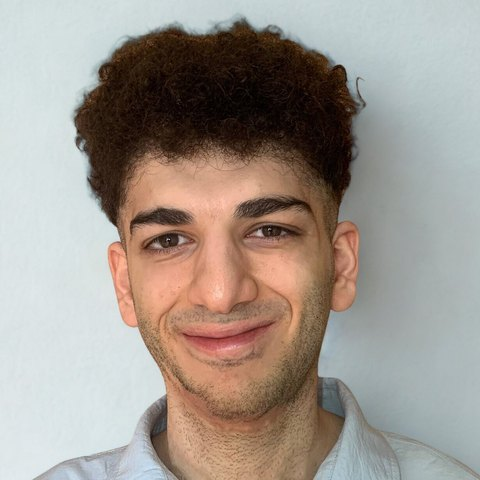
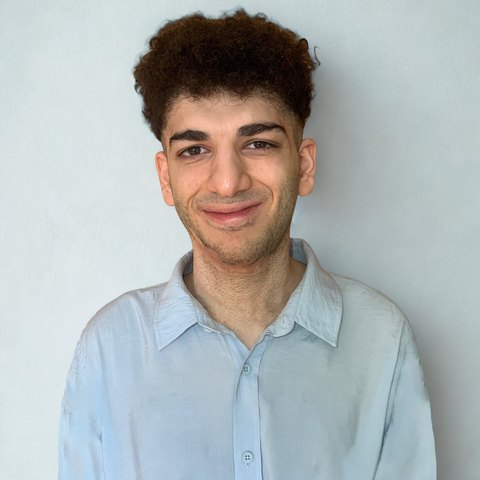
Recrop team photos; add Komandamız dropdown under Biz kimik?
Claude-Session: https://claude.ai/code/session_019X13Zvc9dd8WkbKAtMDupx

diff --git a/yazilar/muellif/eldar/index.html b/yazilar/muellif/eldar/index.html
@@ -16,7 +16,7 @@
   <link rel="icon" href="/favicon-48.png?v=2" type="image/png" sizes="48x48">
   <link rel="apple-touch-icon" href="/apple-touch-icon.png?v=2">
   <link rel="preload" href="/assets/fonts/big-shoulders-display-latin-wght-normal.woff2" as="font" type="font/woff2" crossorigin>
-  <link rel="stylesheet" href="/assets/css/style.css?v=bbbf054f">
+  <link rel="stylesheet" href="/assets/css/style.css?v=8ddf71ae">
   <link rel="stylesheet" href="/assets/css/blog.css?v=4">
   <link rel="stylesheet" href="/assets/css/blog.css?v=4">
   <meta name="src-path" content="yazilar/muellif/eldar/index.html">
@@ -37,7 +37,7 @@
     <div class="wrap">
       <a class="wordmark" href="/" aria-label="KYNO, ana səhifə"><img src="/assets/img/logo.svg" alt="KYNO" width="584" height="307"></a>
       <nav class="nav" aria-label="Əsas menyu">
-        <a href="/haqqimizda/">Biz kimik?</a>
+        <span class="nav-drop"><a href="/haqqimizda/">Biz kimik?</a><span class="nav-menu"><a href="/haqqimizda/#komanda">Komandamız</a></span></span>
         <a href="/podkastlar/">Podkastlar</a>
         <a href="/yazilar/" aria-current="page">Yazılarımız</a>
         <a href="/sosial-media/">Sosial media</a>

diff --git a/yazilar/muellif/elsen/index.html b/yazilar/muellif/elsen/index.html
@@ -16,7 +16,7 @@
   <link rel="icon" href="/favicon-48.png?v=2" type="image/png" sizes="48x48">
   <link rel="apple-touch-icon" href="/apple-touch-icon.png?v=2">
   <link rel="preload" href="/assets/fonts/big-shoulders-display-latin-wght-normal.woff2" as="font" type="font/woff2" crossorigin>
-  <link rel="stylesheet" href="/assets/css/style.css?v=bbbf054f">
+  <link rel="stylesheet" href="/assets/css/style.css?v=8ddf71ae">
   <link rel="stylesheet" href="/assets/css/blog.css?v=4">
   <link rel="stylesheet" href="/assets/css/blog.css?v=4">
   <meta name="src-path" content="yazilar/muellif/elsen/index.html">
@@ -37,7 +37,7 @@
     <div class="wrap">
       <a class="wordmark" href="/" aria-label="KYNO, ana səhifə"><img src="/assets/img/logo.svg" alt="KYNO" width="584" height="307"></a>
       <nav class="nav" aria-label="Əsas menyu">
-        <a href="/haqqimizda/">Biz kimik?</a>
+        <span class="nav-drop"><a href="/haqqimizda/">Biz kimik?</a><span class="nav-menu"><a href="/haqqimizda/#komanda">Komandamız</a></span></span>
         <a href="/podkastlar/">Podkastlar</a>
         <a href="/yazilar/" aria-current="page">Yazılarımız</a>
         <a href="/sosial-media/">Sosial media</a>

diff --git a/yazilar/muellif/esmer/index.html b/yazilar/muellif/esmer/index.html
@@ -16,7 +16,7 @@
   <link rel="icon" href="/favicon-48.png?v=2" type="image/png" sizes="48x48">
   <link rel="apple-touch-icon" href="/apple-touch-icon.png?v=2">
   <link rel="preload" href="/assets/fonts/big-shoulders-display-latin-wght-normal.woff2" as="font" type="font/woff2" crossorigin>
-  <link rel="stylesheet" href="/assets/css/style.css?v=bbbf054f">
+  <link rel="stylesheet" href="/assets/css/style.css?v=8ddf71ae">
   <link rel="stylesheet" href="/assets/css/blog.css?v=4">
   <link rel="stylesheet" href="/assets/css/blog.css?v=4">
   <meta name="src-path" content="yazilar/muellif/esmer/index.html">
@@ -37,7 +37,7 @@
     <div class="wrap">
       <a class="wordmark" href="/" aria-label="KYNO, ana səhifə"><img src="/assets/img/logo.svg" alt="KYNO" width="584" height="307"></a>
       <nav class="nav" aria-label="Əsas menyu">
-        <a href="/haqqimizda/">Biz kimik?</a>
+        <span class="nav-drop"><a href="/haqqimizda/">Biz kimik?</a><span class="nav-menu"><a href="/haqqimizda/#komanda">Komandamız</a></span></span>
         <a href="/podkastlar/">Podkastlar</a>
         <a href="/yazilar/" aria-current="page">Yazılarımız</a>
         <a href="/sosial-media/">Sosial media</a>

diff --git a/yazilar/muellif/mesud/index.html b/yazilar/muellif/mesud/index.html
@@ -16,7 +16,7 @@
   <link rel="icon" href="/favicon-48.png?v=2" type="image/png" sizes="48x48">
   <link rel="apple-touch-icon" href="/apple-touch-icon.png?v=2">
   <link rel="preload" href="/assets/fonts/big-shoulders-display-latin-wght-normal.woff2" as="font" type="font/woff2" crossorigin>
-  <link rel="stylesheet" href="/assets/css/style.css?v=bbbf054f">
+  <link rel="stylesheet" href="/assets/css/style.css?v=8ddf71ae">
   <link rel="stylesheet" href="/assets/css/blog.css?v=4">
   <link rel="stylesheet" href="/assets/css/blog.css?v=4">
   <meta name="src-path" content="yazilar/muellif/mesud/index.html">
@@ -37,7 +37,7 @@
     <div class="wrap">
       <a class="wordmark" href="/" aria-label="KYNO, ana səhifə"><img src="/assets/img/logo.svg" alt="KYNO" width="584" height="307"></a>
       <nav class="nav" aria-label="Əsas menyu">
-        <a href="/haqqimizda/">Biz kimik?</a>
+        <span class="nav-drop"><a href="/haqqimizda/">Biz kimik?</a><span class="nav-menu"><a href="/haqqimizda/#komanda">Komandamız</a></span></span>
         <a href="/podkastlar/">Podkastlar</a>
         <a href="/yazilar/" aria-current="page">Yazılarımız</a>
         <a href="/sosial-media/">Sosial media</a>

diff --git a/yazilar/blade-runner/index.html b/yazilar/blade-runner/index.html
@@ -16,7 +16,7 @@
   <link rel="icon" href="/favicon-48.png?v=2" type="image/png" sizes="48x48">
   <link rel="apple-touch-icon" href="/apple-touch-icon.png?v=2">
   <link rel="preload" href="/assets/fonts/big-shoulders-display-latin-wght-normal.woff2" as="font" type="font/woff2" crossorigin>
-  <link rel="stylesheet" href="/assets/css/style.css?v=bbbf054f">
+  <link rel="stylesheet" href="/assets/css/style.css?v=8ddf71ae">
   <link rel="stylesheet" href="/assets/css/blog.css?v=4">
   <link rel="stylesheet" href="/assets/css/blog.css?v=4">
   <meta name="src-path" content="yazilar/blade-runner/index.html">
@@ -37,7 +37,7 @@
     <div class="wrap">
       <a class="wordmark" href="/" aria-label="KYNO, ana səhifə"><img src="/assets/img/logo.svg" alt="KYNO" width="584" height="307"></a>
       <nav class="nav" aria-label="Əsas menyu">
-        <a href="/haqqimizda/">Biz kimik?</a>
+        <span class="nav-drop"><a href="/haqqimizda/">Biz kimik?</a><span class="nav-menu"><a href="/haqqimizda/#komanda">Komandamız</a></span></span>
         <a href="/podkastlar/">Podkastlar</a>
         <a href="/yazilar/" aria-current="page">Yazılarımız</a>
         <a href="/sosial-media/">Sosial media</a>

diff --git a/yazilar/honey-boy/index.html b/yazilar/honey-boy/index.html
@@ -16,7 +16,7 @@
   <link rel="icon" href="/favicon-48.png?v=2" type="image/png" sizes="48x48">
   <link rel="apple-touch-icon" href="/apple-touch-icon.png?v=2">
   <link rel="preload" href="/assets/fonts/big-shoulders-display-latin-wght-normal.woff2" as="font" type="font/woff2" crossorigin>
-  <link rel="stylesheet" href="/assets/css/style.css?v=bbbf054f">
+  <link rel="stylesheet" href="/assets/css/style.css?v=8ddf71ae">
   <link rel="stylesheet" href="/assets/css/blog.css?v=4">
   <link rel="stylesheet" href="/assets/css/blog.css?v=4">
   <meta name="src-path" content="yazilar/honey-boy/index.html">
@@ -37,7 +37,7 @@
     <div class="wrap">
       <a class="wordmark" href="/" aria-label="KYNO, ana səhifə"><img src="/assets/img/logo.svg" alt="KYNO" width="584" height="307"></a>
       <nav class="nav" aria-label="Əsas menyu">
-        <a href="/haqqimizda/">Biz kimik?</a>
+        <span class="nav-drop"><a href="/haqqimizda/">Biz kimik?</a><span class="nav-menu"><a href="/haqqimizda/#komanda">Komandamız</a></span></span>
         <a href="/podkastlar/">Podkastlar</a>
         <a href="/yazilar/" aria-current="page">Yazılarımız</a>
         <a href="/sosial-media/">Sosial media</a>

diff --git a/yazilar/index.html b/yazilar/index.html
@@ -16,7 +16,7 @@
   <link rel="icon" href="/favicon-48.png?v=2" type="image/png" sizes="48x48">
   <link rel="apple-touch-icon" href="/apple-touch-icon.png?v=2">
   <link rel="preload" href="/assets/fonts/big-shoulders-display-latin-wght-normal.woff2" as="font" type="font/woff2" crossorigin>
-  <link rel="stylesheet" href="/assets/css/style.css?v=bbbf054f">
+  <link rel="stylesheet" href="/assets/css/style.css?v=8ddf71ae">
   <link rel="stylesheet" href="/assets/css/blog.css?v=4">
   <link rel="stylesheet" href="/assets/css/blog.css?v=4">
   <meta name="src-path" content="yazilar/index.html">
@@ -37,7 +37,7 @@
     <div class="wrap">
       <a class="wordmark" href="/" aria-label="KYNO, ana səhifə"><img src="/assets/img/logo.svg" alt="KYNO" width="584" height="307"></a>
       <nav class="nav" aria-label="Əsas menyu">
-        <a href="/haqqimizda/">Biz kimik?</a>
+        <span class="nav-drop"><a href="/haqqimizda/">Biz kimik?</a><span class="nav-menu"><a href="/haqqimizda/#komanda">Komandamız</a></span></span>
         <a href="/podkastlar/">Podkastlar</a>
         <a href="/yazilar/" aria-current="page">Yazılarımız</a>
         <a href="/sosial-media/">Sosial media</a>

diff --git a/sosial-media/index.html b/sosial-media/index.html
@@ -17,7 +17,7 @@
   <link rel="icon" href="/favicon-48.png?v=2" type="image/png" sizes="48x48">
   <link rel="apple-touch-icon" href="/apple-touch-icon.png?v=2">
   <link rel="preload" href="/assets/fonts/big-shoulders-display-latin-wght-normal.woff2" as="font" type="font/woff2" crossorigin>
-  <link rel="stylesheet" href="/assets/css/style.css?v=bbbf054f">
+  <link rel="stylesheet" href="/assets/css/style.css?v=8ddf71ae">
   <meta name="src-path" content="sosial-media/index.html">
   <script>
     /* The on-page editor loads only when asked for (add ?edit to the address)
@@ -36,7 +36,7 @@
     <div class="wrap">
       <a class="wordmark" href="/" aria-label="KYNO, ana səhifə"><img src="/assets/img/logo.svg" alt="KYNO" width="584" height="307"></a>
       <nav class="nav" aria-label="Əsas menyu">
-        <a href="/haqqimizda/">Biz kimik?</a>
+        <span class="nav-drop"><a href="/haqqimizda/">Biz kimik?</a><span class="nav-menu"><a href="/haqqimizda/#komanda">Komandamız</a></span></span>
         <a href="/podkastlar/">Podkastlar</a>
         <a href="/yazilar/">Yazılarımız</a>
         <a href="/sosial-media/" aria-current="page">Sosial media</a>

diff --git a/podkastlar/index.html b/podkastlar/index.html
@@ -17,7 +17,7 @@
   <link rel="icon" href="/favicon-48.png?v=2" type="image/png" sizes="48x48">
   <link rel="apple-touch-icon" href="/apple-touch-icon.png?v=2">
   <link rel="preload" href="/assets/fonts/big-shoulders-display-latin-wght-normal.woff2" as="font" type="font/woff2" crossorigin>
-  <link rel="stylesheet" href="/assets/css/style.css?v=bbbf054f">
+  <link rel="stylesheet" href="/assets/css/style.css?v=8ddf71ae">
   <meta name="src-path" content="podkastlar/index.html">
   <script>
     /* The on-page editor loads only when asked for (add ?edit to the address)
@@ -36,7 +36,7 @@
     <div class="wrap">
       <a class="wordmark" href="/" aria-label="KYNO, ana səhifə"><img src="/assets/img/logo.svg" alt="KYNO" width="584" height="307"></a>
       <nav class="nav" aria-label="Əsas menyu">
-        <a href="/haqqimizda/">Biz kimik?</a>
+        <span class="nav-drop"><a href="/haqqimizda/">Biz kimik?</a><span class="nav-menu"><a href="/haqqimizda/#komanda">Komandamız</a></span></span>
         <a href="/podkastlar/" aria-current="page">Podkastlar</a>
         <a href="/yazilar/">Yazılarımız</a>
         <a href="/sosial-media/">Sosial media</a>

diff --git a/haqqimizda/index.html b/haqqimizda/index.html
@@ -17,7 +17,7 @@
   <link rel="icon" href="/favicon-48.png?v=2" type="image/png" sizes="48x48">
   <link rel="apple-touch-icon" href="/apple-touch-icon.png?v=2">
   <link rel="preload" href="/assets/fonts/big-shoulders-display-latin-wght-normal.woff2" as="font" type="font/woff2" crossorigin>
-  <link rel="stylesheet" href="/assets/css/style.css?v=bbbf054f">
+  <link rel="stylesheet" href="/assets/css/style.css?v=8ddf71ae">
   <link rel="stylesheet" href="/assets/css/blog.css?v=4">
   <meta name="src-path" content="haqqimizda/index.html">
   <script>
@@ -37,7 +37,7 @@
     <div class="wrap">
       <a class="wordmark" href="/" aria-label="KYNO, ana səhifə"><img src="/assets/img/logo.svg" alt="KYNO" width="584" height="307"></a>
       <nav class="nav" aria-label="Əsas menyu">
-        <a href="/haqqimizda/" aria-current="page">Biz kimik?</a>
+        <span class="nav-drop"><a href="/haqqimizda/" aria-current="page">Biz kimik?</a><span class="nav-menu"><a href="/haqqimizda/#komanda">Komandamız</a></span></span>
         <a href="/podkastlar/">Podkastlar</a>
         <a href="/yazilar/">Yazılarımız</a>
         <a href="/sosial-media/">Sosial media</a>

diff --git a/kim-dedi/2026-noyabr/index.html b/kim-dedi/2026-noyabr/index.html
@@ -16,7 +16,7 @@
   <link rel="icon" href="/favicon-48.png?v=2" type="image/png" sizes="48x48">
   <link rel="apple-touch-icon" href="/apple-touch-icon.png?v=2">
   <link rel="preload" href="/assets/fonts/big-shoulders-display-latin-wght-normal.woff2" as="font" type="font/woff2" crossorigin>
-  <link rel="stylesheet" href="/assets/css/style.css?v=bbbf054f">
+  <link rel="stylesheet" href="/assets/css/style.css?v=8ddf71ae">
   <meta name="src-path" content="kim-dedi/2026-noyabr/index.html">
   <script>
     /* The on-page editor loads only when asked for (add ?edit to the address)
@@ -54,7 +54,7 @@
     <div class="wrap">
       <a class="wordmark" href="/" aria-label="KYNO, ana səhifə"><img src="/assets/img/logo.svg" alt="KYNO" width="584" height="307"></a>
       <nav class="nav" aria-label="Əsas menyu">
-        <a href="/haqqimizda/">Biz kimik?</a>
+        <span class="nav-drop"><a href="/haqqimizda/">Biz kimik?</a><span class="nav-menu"><a href="/haqqimizda/#komanda">Komandamız</a></span></span>
         <a href="/podkastlar/">Podkastlar</a>
         <a href="/yazilar/">Yazılarımız</a>
         <a href="/sosial-media/">Sosial media</a>

diff --git a/kino-gundeliyi/index.html b/kino-gundeliyi/index.html
@@ -17,7 +17,7 @@
   <link rel="icon" href="/favicon-48.png?v=2" type="image/png" sizes="48x48">
   <link rel="apple-touch-icon" href="/apple-touch-icon.png?v=2">
   <link rel="preload" href="/assets/fonts/big-shoulders-display-latin-wght-normal.woff2" as="font" type="font/woff2" crossorigin>
-  <link rel="stylesheet" href="/assets/css/style.css?v=bbbf054f">
+  <link rel="stylesheet" href="/assets/css/style.css?v=8ddf71ae">
   <meta name="src-path" content="kino-gundeliyi/index.html">
   <script>
     /* The on-page editor loads only when asked for (add ?edit to the address)
@@ -36,7 +36,7 @@
     <div class="wrap">
       <a class="wordmark" href="/" aria-label="KYNO, ana səhifə"><img src="/assets/img/logo.svg" alt="KYNO" width="584" height="307"></a>
       <nav class="nav" aria-label="Əsas menyu">
-        <a href="/haqqimizda/">Biz kimik?</a>
+        <span class="nav-drop"><a href="/haqqimizda/">Biz kimik?</a><span class="nav-menu"><a href="/haqqimizda/#komanda">Komandamız</a></span></span>
         <a href="/podkastlar/">Podkastlar</a>
         <a href="/yazilar/">Yazılarımız</a>
         <a href="/sosial-media/">Sosial media</a>
